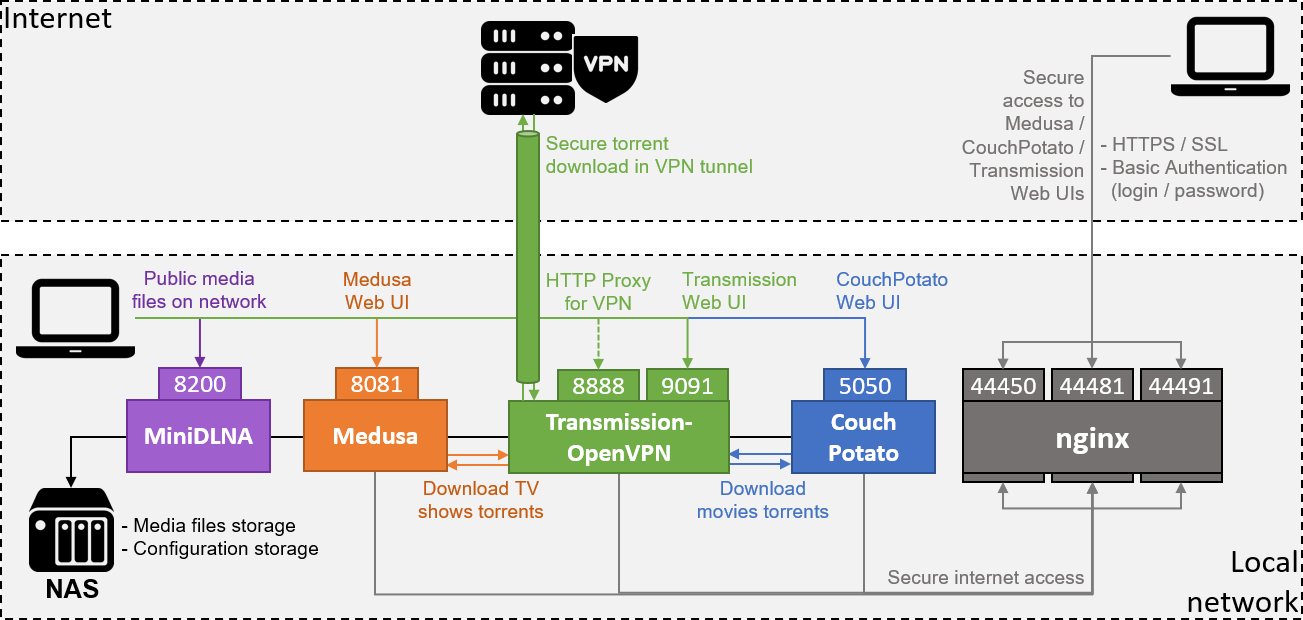
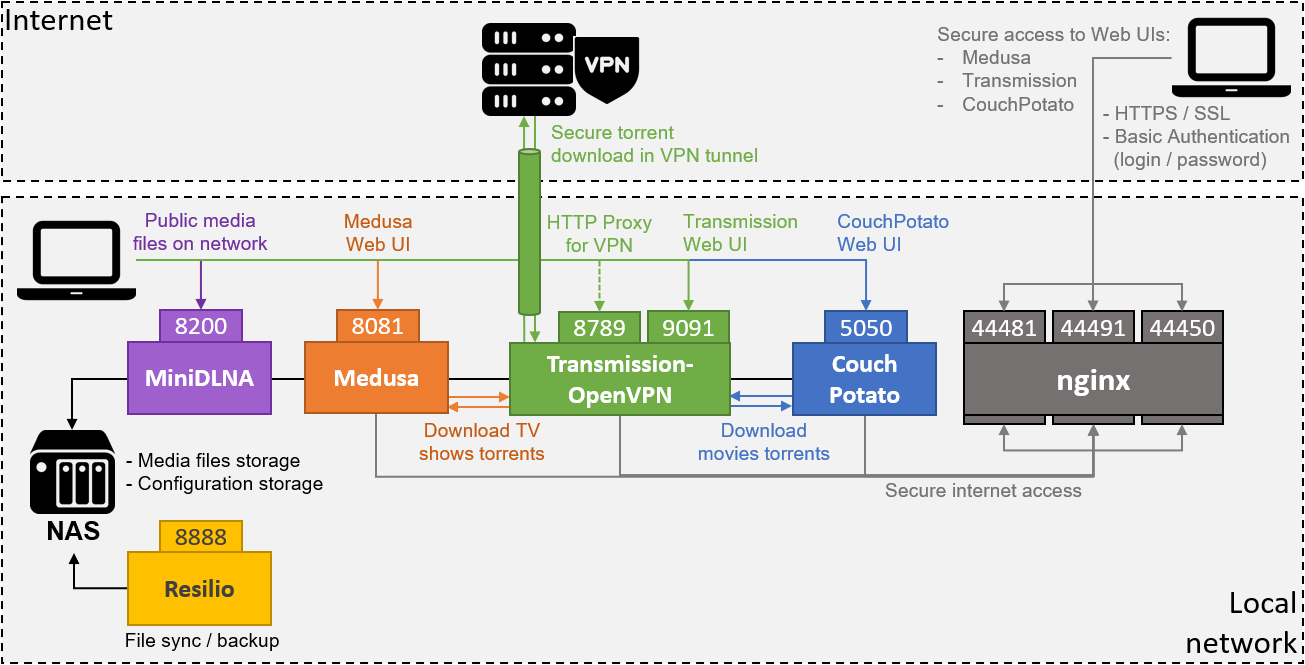
Resilio service added + transmission-openvpn migrated to v3 (with new PIA servers)

diff --git a/README.md b/README.md
@@ -10,6 +10,7 @@ See GitHub repositories / Docker Hub images:
 | **CouchPotato**<br />Movies manager and auto-downloader, connected to torrent server | <ul><li>https://github.com/linuxserver/docker-couchpotato</li><li>https://hub.docker.com/r/linuxserver/couchpotato</li></ul>|
 | **nginx**<br />Reverse proxy, used to expose services as HTTPS with SSL certificates and basic authentication | <ul><li>https://github.com/nginxinc/docker-nginx</li><li>https://hub.docker.com/_/nginx</li></ul>|
 | **MiniDLNA**<br />UPnP / DLNA service, used to publish media files on the local network | <ul><li>https://github.com/vladgh/docker_base_images/tree/master/minidlna</li><li>https://hub.docker.com/r/vladgh/minidlna</li></ul>|
+| **Resilio Sync**<br />File sync service based on P2P, used to backup photos / videos from mobiles to NAS on the local network | <ul><li>https://www.resilio.com</li><li>https://hub.docker.com/r/resilio/sync/</li></ul>|
 
 ## How does it work ?
 This repository contains a main docker-compose file, configured to launch each dedicated service (docker container). This diagram explains how it works:<br /><br />
@@ -88,6 +89,7 @@ shares/P2P/tools
 │   ├── nginx.conf    # nginx configuration file (use configurator to setup)
 │   ├── passwords     # nginx credentials for basic authentication (use configurator to setup)
 │   └── logs          # nginx logs
+├── resilio           # Contains Resilio configuration files (databases)
 ├── ssl               # Contains certificates for nginx HTTPS access 
 │   └── ...           # **GENERATE FILES .crt AND .key HERE**
 └── transmission      # Contains Transmission configuration, cache and logs
@@ -112,6 +114,9 @@ storage
 │   └── seed        # Seeding torrents by Transmission
 ├── incomplete      # Currently downloading torrents by Transmission
 ├── watch           # Watch directory for *.torrent files
+├── resilio         # Watch directory for *.torrent files
+│   ├── downloads   # Resilio downloads directory
+│   └── sync        # Resilio sync directory
 ├── ...
 ├── Backup          # Old personal photos & videos, published with MiniDLNA
 ├── Films           # Movies on NAS, managed by CouchPotato and published with MiniDLNA
